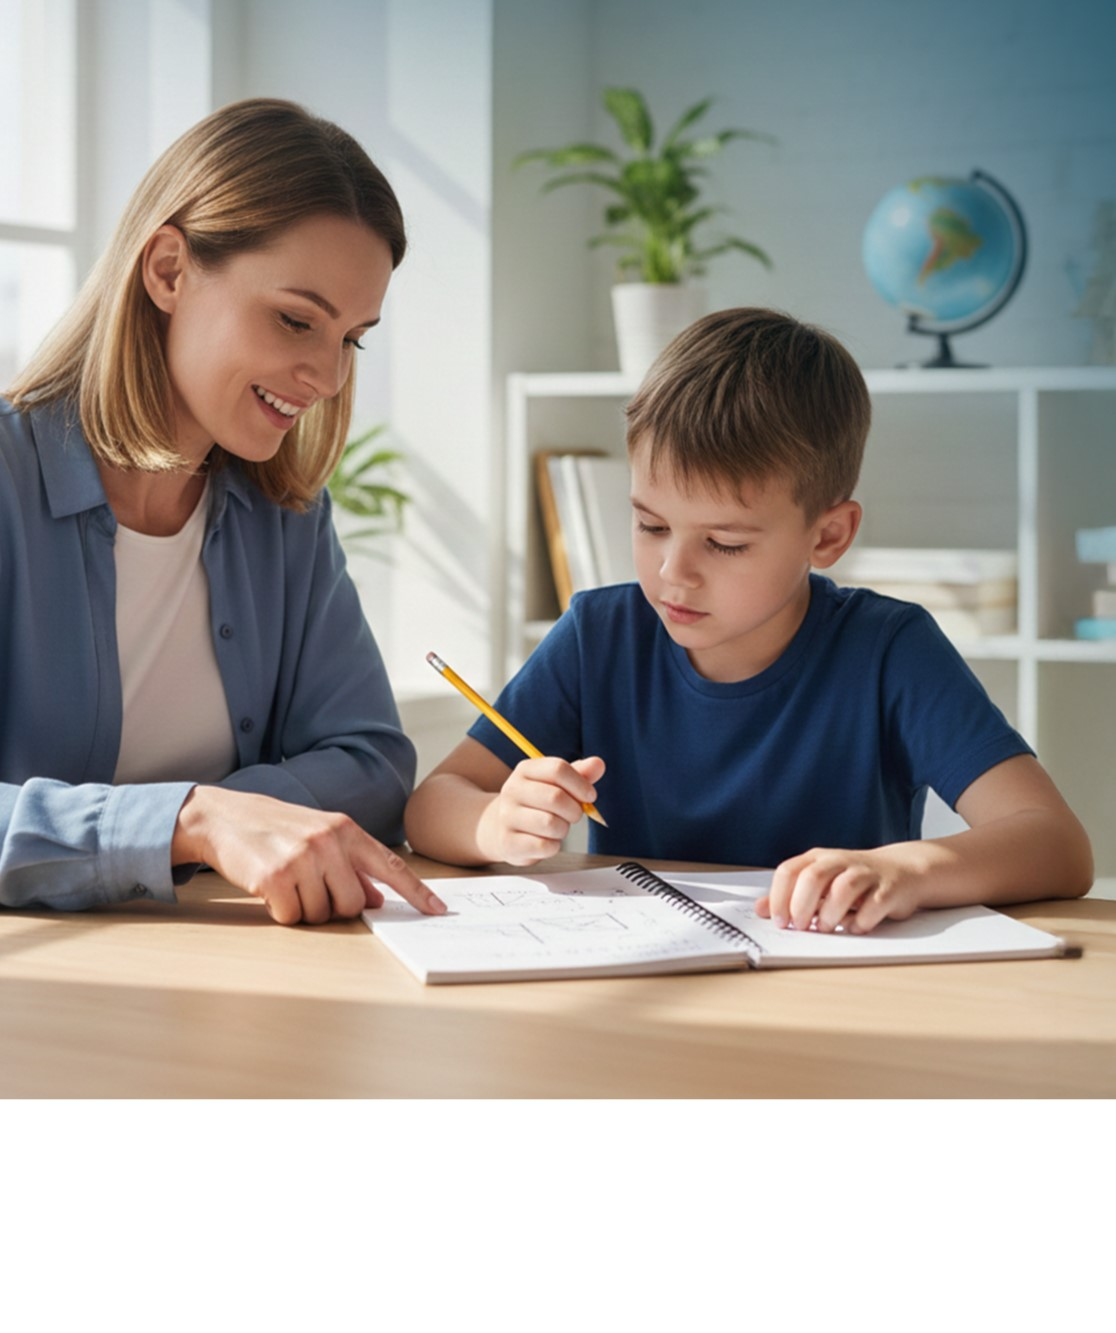
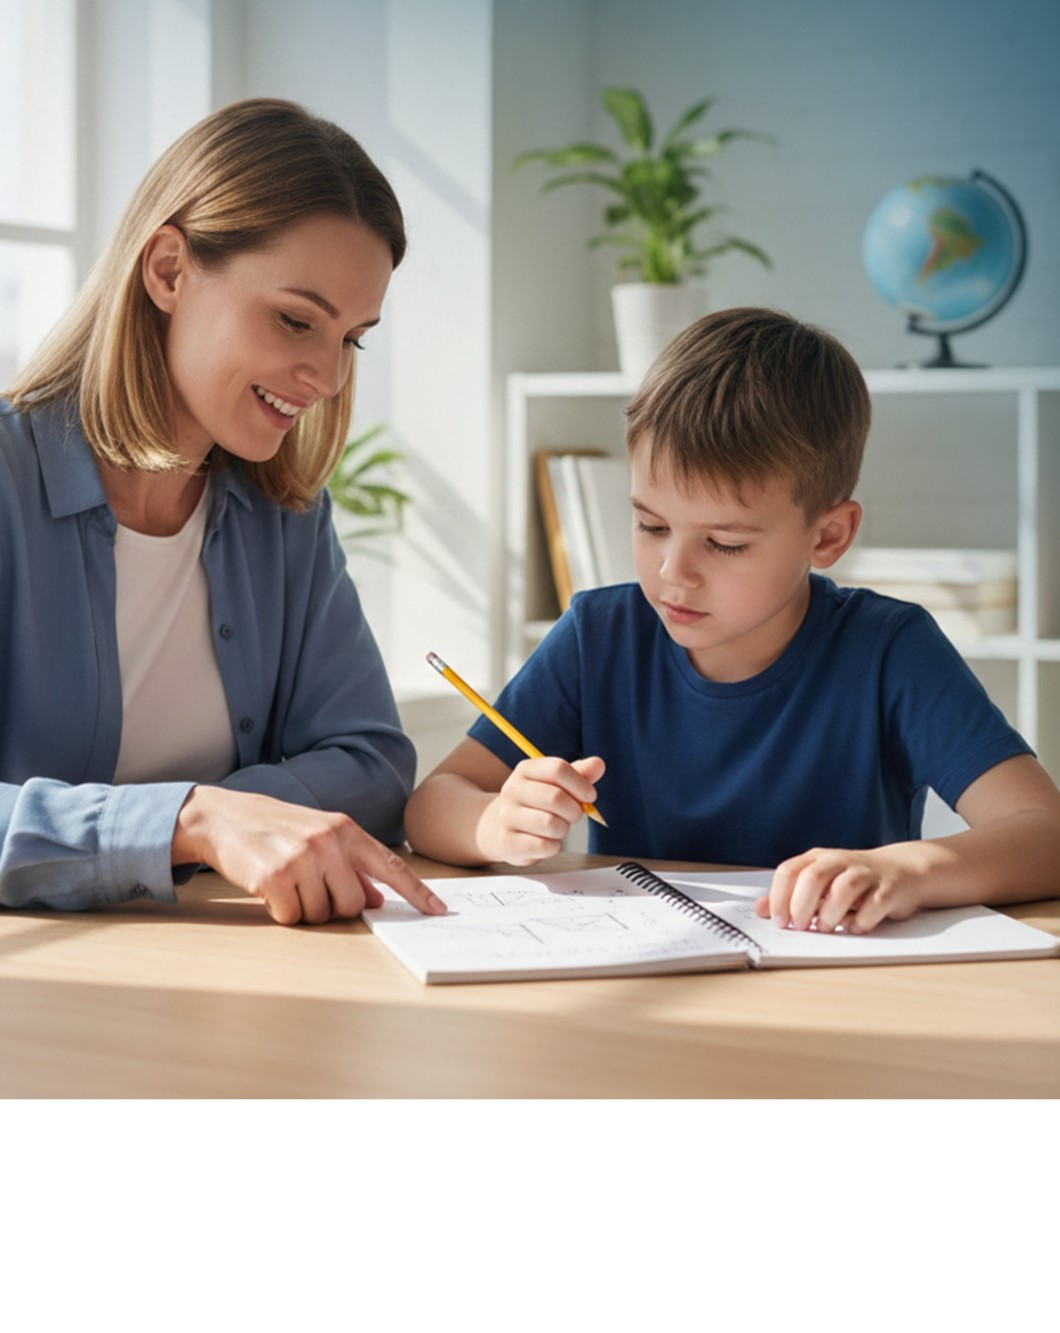
updated

Changed region(s): [[0.0311, 0.0, 1.0, 0.7689]]

diff --git a/index.html b/index.html
@@ -125,7 +125,7 @@
                             <!-- Slider 1 -->
                             <div class="swiper-slide">
                                 <div class="swiper-inner" data-bgimage="url(images/slider/3.webp)">
-                                    <img src="images/slider/3-phn.jpg" class="mobile-slide-img" alt="">
+                                    <img src="images/slider/3-phn.webp" class="mobile-slide-img" alt="">
                                     <div class="sw-caption relative z-1000">
                                         <div class="container">
                                             <div class="row gx-5 align-items-center">
@@ -194,7 +194,7 @@
                             <!-- Slider 2 -->
                             <div class="swiper-slide">
                                 <div class="swiper-inner" data-bgimage="url(images/slider/4.webp)">
-                                    <img src="images/slider/4-phn.png" class="mobile-slide-img" alt="">    
+                                    <img src="images/slider/4-phn.webp" class="mobile-slide-img" alt="">    
                                     <div class="sw-caption relative z-1000">
                                         <div class="container">
                                             <div class="row gx-5 align-items-center">
@@ -262,7 +262,7 @@
                             <!-- Slider 3 -->
                             <div class="swiper-slide">
                                 <div class="swiper-inner" data-bgimage="url(images/slider/5.webp)">
-                                    <img src="images/slider/5-phn.png" class="mobile-slide-img" alt="">
+                                    <img src="images/slider/5-phn.webp" class="mobile-slide-img" alt="">
                                     <div class="sw-caption relative z-1000">
                                         <div class="container">
                                             <div class="row gx-5 align-items-center">
@@ -330,7 +330,7 @@
                             <!-- Slider 4-->
                             <div class="swiper-slide">
                                 <div class="swiper-inner" data-bgimage="url(images/slider/6.webp)">
-                                    <img src="images/slider/6-phn.jpg" class="mobile-slide-img" alt="">
+                                    <img src="images/slider/6-phn.webp" class="mobile-slide-img" alt="">
                                     <div class="sw-caption relative z-1000">
                                         <div class="container">
                                             <div class="row gx-5 align-items-center">
@@ -401,7 +401,7 @@
                             <!-- Slider 5-->
                             <div class="swiper-slide">
                                 <div class="swiper-inner" data-bgimage="url(images/slider/7.webp)">
-                                    <img src="images/slider/7-phn.png" class="mobile-slide-img" alt="">
+                                    <img src="images/slider/7-phn.webp" class="mobile-slide-img" alt="">
                                     <div class="sw-caption relative z-1000">
                                         <div class="container">
                                             <div class="row gx-5 align-items-center">
